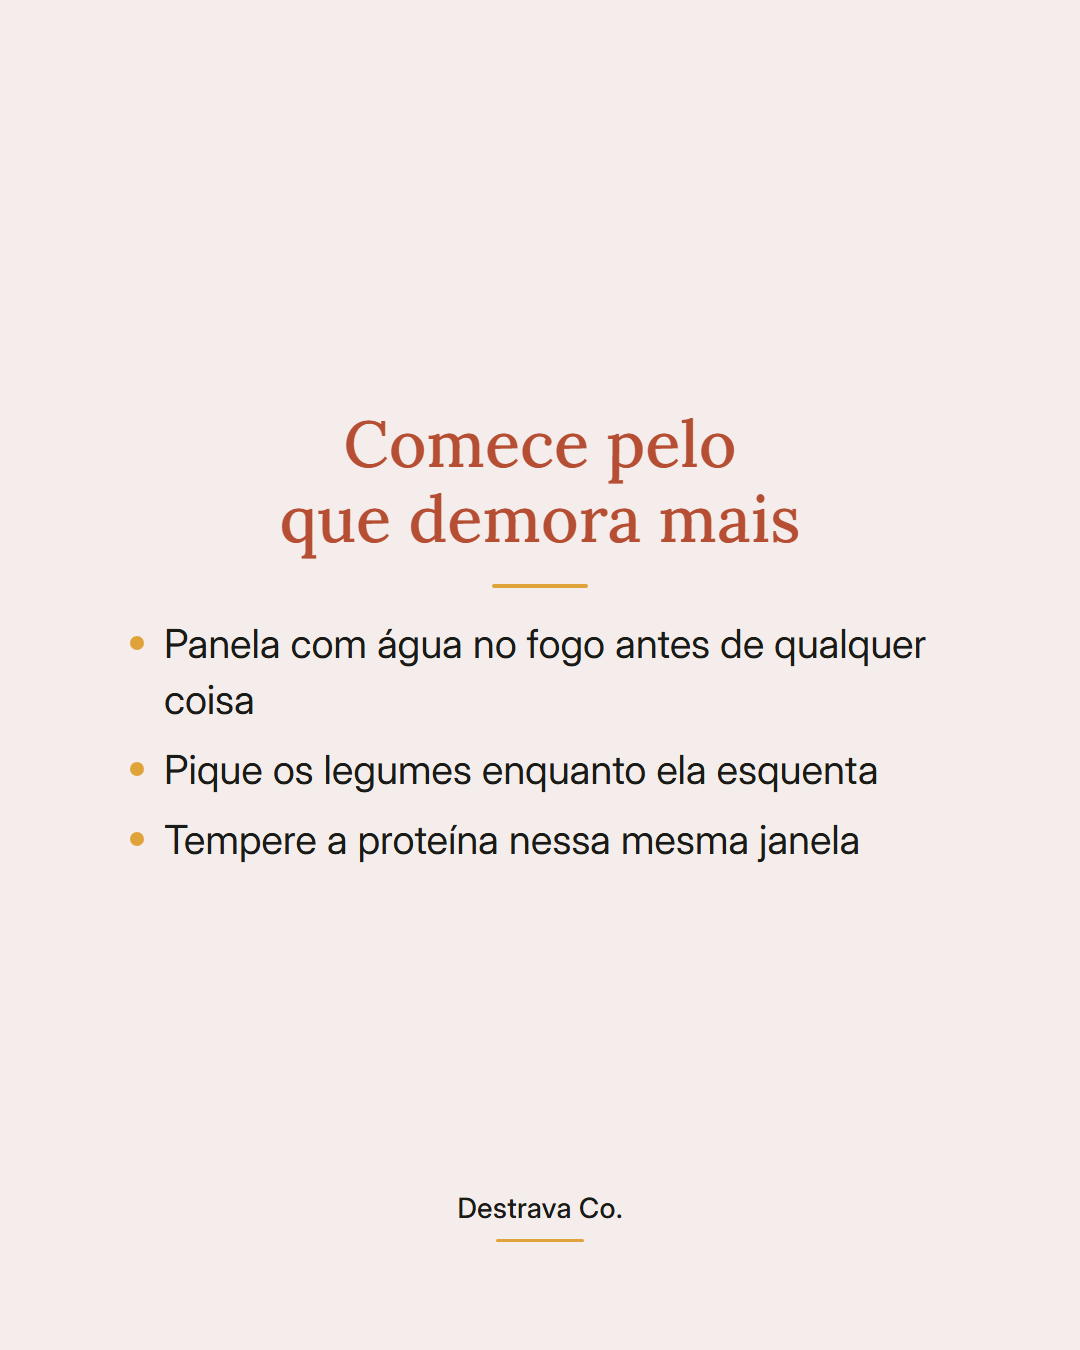
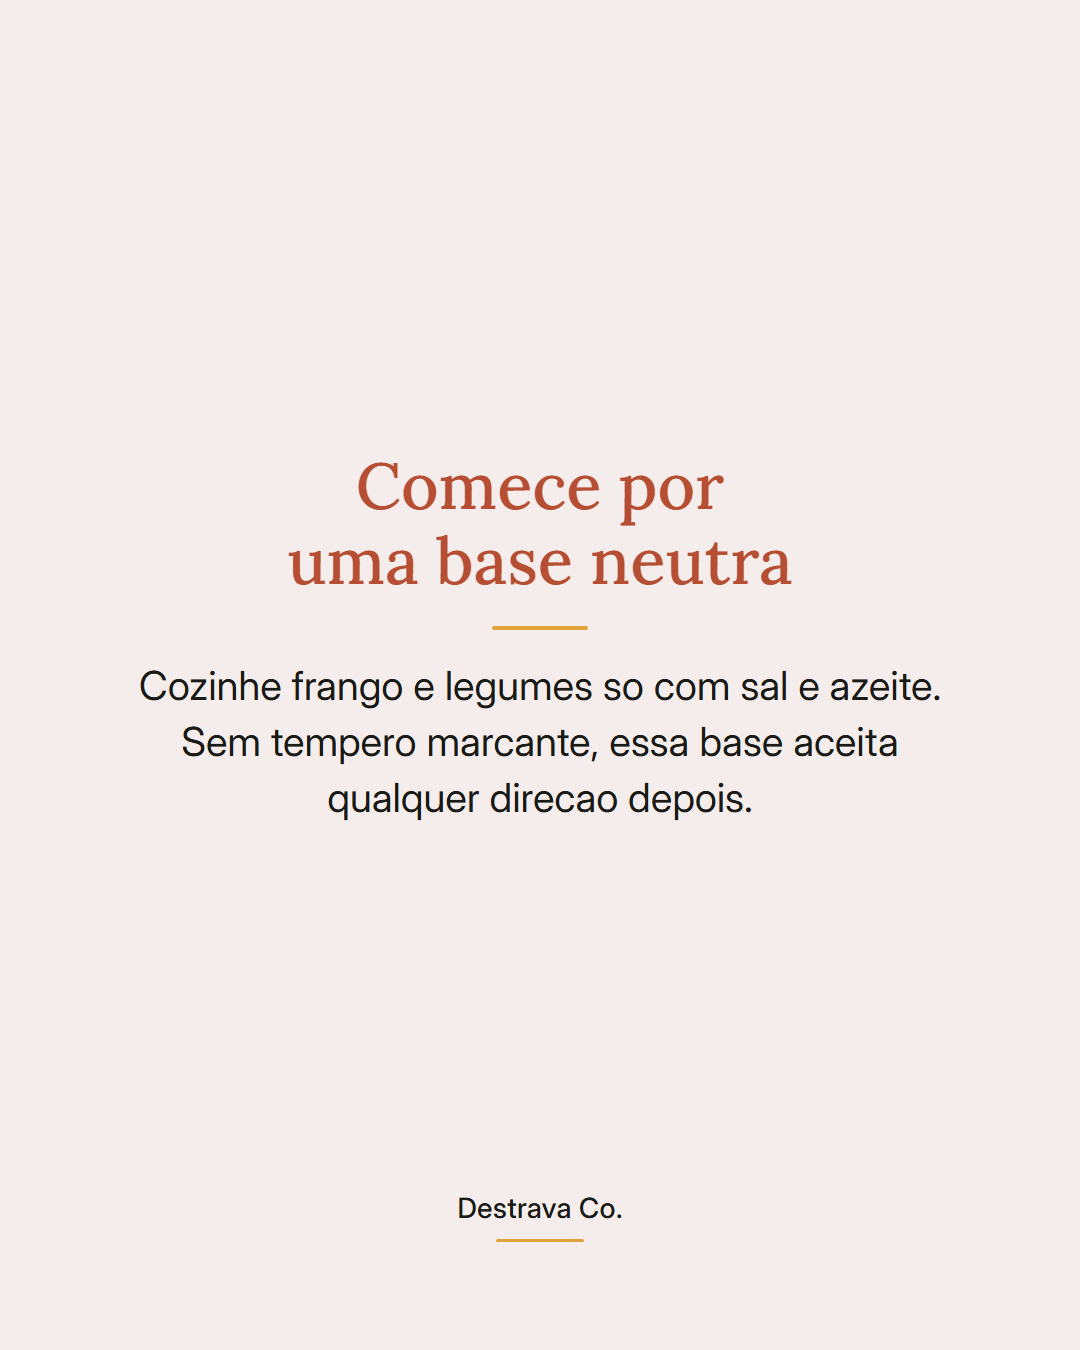
content: peças Instagram 2026_09_21

Changed region(s): [[0.1222, 0.4667, 0.8556, 0.6533], [0.2444, 0.3111, 0.7333, 0.4356]]

diff --git a/public/content/2026_09_21/index.html b/public/content/2026_09_21/index.html
@@ -18,23 +18,23 @@
 </style>
 </head>
 <body>
-<h1>Cozinha · capa A (campo)</h1>
-<div class="meta">2026-09-21 · gerado em 2026-09-16T15:15:15 · sticker sugerido nos Stories: enquete</div>
+<h1>Cozinha · capa B (wash2)</h1>
+<div class="meta">2026-09-21 · gerado em 2026-09-21T07:00:39 · sticker sugerido nos Stories: quiz</div>
 <h2>Carrossel</h2>
-<div class="strip"><img src="2026_09_21_-_Carrossel_Cozinha_01.png" alt="Foto de uma panela com água fervendo ao lado de legumes picados, com o texto sobre ligar a água antes de abrir a geladeira." title="2026_09_21_-_Carrossel_Cozinha_01.png"><img src="2026_09_21_-_Carrossel_Cozinha_02.png" alt="Fundo claro com três passos curtos sobre começar pelo que demora mais no preparo do jantar." title="2026_09_21_-_Carrossel_Cozinha_02.png"><img src="2026_09_21_-_Carrossel_Cozinha_03.png" alt="Fundo bege com texto explicando que os minutos de espera do fogão podem ser usados para adiantar o jantar." title="2026_09_21_-_Carrossel_Cozinha_03.png"><img src="2026_09_21_-_Carrossel_Cozinha_04.png" alt="Fundo claro com lista de três combinações simples de jantar que ficam prontas rápido." title="2026_09_21_-_Carrossel_Cozinha_04.png"><img src="2026_09_21_-_Carrossel_Cozinha_05.png" alt="Lâmina final com convite para baixar o PDF gratuito com 20 receitas rápidas." title="2026_09_21_-_Carrossel_Cozinha_05.png"></div>
+<div class="strip"><img src="2026_09_21_-_Carrossel_Cozinha_01.png" alt="Lamina de capa com fundo wash2 e foto de frango com legumes numa frigideira, titulo em campo sobre o sabor mudar todo dia." title="2026_09_21_-_Carrossel_Cozinha_01.png"><img src="2026_09_21_-_Carrossel_Cozinha_02.png" alt="Lamina de miolo com fundo wash1 bem claro e titulo no campo profundo explicando a base neutra de frango e legumes." title="2026_09_21_-_Carrossel_Cozinha_02.png"><img src="2026_09_21_-_Carrossel_Cozinha_03.png" alt="Lamina de miolo com fundo wash1 bem claro, titulo no campo profundo e lista com tres combinacoes de tempero." title="2026_09_21_-_Carrossel_Cozinha_03.png"><img src="2026_09_21_-_Carrossel_Cozinha_04.png" alt="Lamina de miolo com fundo wash1 bem claro e titulo no campo profundo orientando temperar na hora de servir." title="2026_09_21_-_Carrossel_Cozinha_04.png"><img src="2026_09_21_-_Carrossel_Cozinha_05.png" alt="Lamina final com fundo campo profundo, texto creme convidando a baixar o PDF e botao no tom de acento." title="2026_09_21_-_Carrossel_Cozinha_05.png"></div>
 <h2>Stories</h2>
-<div class="strip"><img class="story" src="2026_09_21_-_Stories_Cozinha_01.png" alt="Story com fundo claro convidando a ver no feed o carrossel sobre aproveitar o tempo da água fervendo." title="2026_09_21_-_Stories_Cozinha_01.png"></div>
+<div class="strip"><img class="story" src="2026_09_21_-_Stories_Cozinha_01.png" alt="Stories com fundo wash2 da linha e titulo em campo sobre uma base que vira tres sabores." title="2026_09_21_-_Stories_Cozinha_01.png"><img class="story" src="2026_09_21_-_Stories_Cozinha_02.png" alt="Stories em fundo terracota com convite ao e-book gratuito de 20 receitas rápidas e o endereço da página em destaque no chip mostarda." title="2026_09_21_-_Stories_Cozinha_02.png"></div>
+<div class="meta">1º · stories post do dia · <a href="2026_09_21_-_Stories_Cozinha_01.png" download="2026_09_21_-_Stories_Cozinha_01.png">⬇ baixar</a> · sticker de link → post do dia (permalink em publicado.json depois de publicar) · sticker extra sugerido: quiz</div><div class="meta">2º · stories oferta · <a href="2026_09_21_-_Stories_Cozinha_02.png" download="2026_09_21_-_Stories_Cozinha_02.png">⬇ baixar</a> · sticker de link → <a href="https://lp.destravaco.com.br/receitas-15min">https://lp.destravaco.com.br/receitas-15min</a></div>
+<div class="meta">Stories não vão pela API: baixe e poste no app colando o sticker de link.</div>
 <h2>Legenda</h2>
-<pre>Ligar a água antes de abrir a geladeira muda o jantar inteiro.
+<pre>Comida repetida cansa mais que cozinhar. A saida nao e receita nova, e acabamento novo.
 
-Enquanto a panela esquenta, dá pra picar o que precisa, temperar a proteína e já deixar a frigideira no fogo. São minutos que normalmente passam em branco e que, bem usados, entregam o jantar quase montado.
+Quando voce cozinha frango e legumes so com sal e azeite, ganha uma base que vai pra qualquer lado. No dia seguinte ela vira limao com salsinha. Depois vira shoyu com gengibre. Depois vira tomate com oregano.
 
-Não é truque de chef, é ordem. Começar pelo que demora mais e encaixar o resto no meio tira aquela sensação de que cozinhar toma a noite toda.
+Sao dois minutos no fim, direto no prato. O resto do trabalho ja estava feito.
 
-Hoje pode ser macarrão com brócolis na mesma panela, arroz pronto com ovo mexido e tomate ou legumes na frigideira com frango em tiras.
+Salva pra lembrar na proxima vez que bater o tedio do jantar e manda pra quem sempre reclama que comeu a mesma coisa. Se quiser mais opcoes prontas, o PDF com 20 receitas de ate 15 minutos ta esperando por voce.
 
-Salva pra lembrar na correria e manda pra quem sempre chega em casa sem ideia. Se quiser, tem um PDF gratuito com 20 receitas de até 15 minutos esperando por você.
-
-<span class="tags">#receitasrapidas #jantarpratico #cozinhapratica #comidadeverdade #receitasfaceis</span></pre>
+<span class="tags">#receitasrapidas #cozinhapratica #jantarpratico #comidadeverdade #cardapiosemanal</span></pre>
 </body>
 </html>
